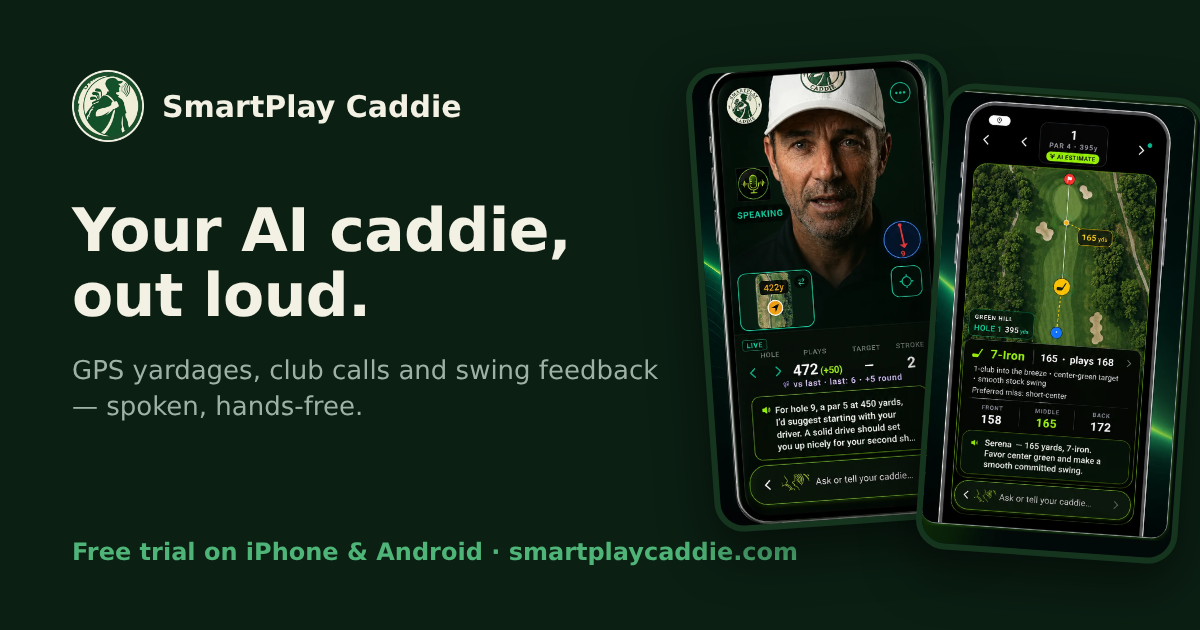
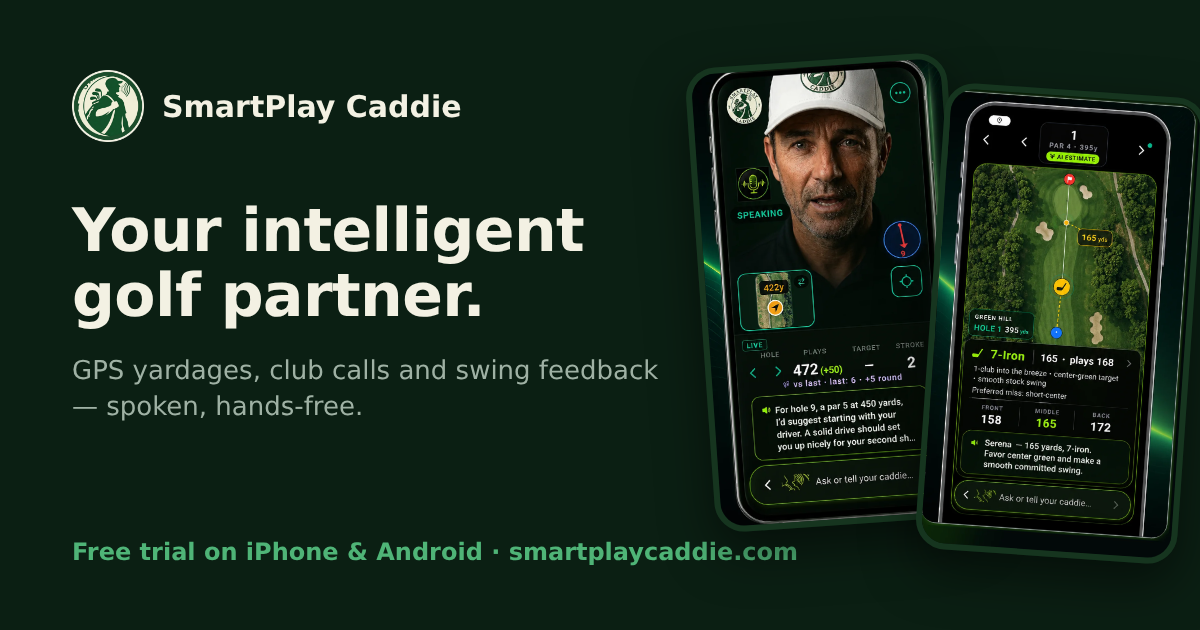
Brand line: 'Your intelligent golf partner' on share image and alt text
Claude-Session: https://claude.ai/code/session_012gehGfYVXeLHjYiX4vgHuc

Changed region(s): [[0.185, 0.3016, 0.4933, 0.4222], [0.0617, 0.4222, 0.4008, 0.5429]]

diff --git a/about.html b/about.html
@@ -16,7 +16,7 @@
 <meta property="og:image" content="https://smartplaycaddie.com/og.png">
 <meta property="og:image:width" content="1200">
 <meta property="og:image:height" content="630">
-<meta property="og:image:alt" content="SmartPlay Caddie — your AI golf caddie, out loud">
+<meta property="og:image:alt" content="SmartPlay Caddie — your intelligent golf partner">
 <meta name="twitter:card" content="summary_large_image">
 <meta name="twitter:image" content="https://smartplaycaddie.com/og.png">
 <link rel="icon" href="/favicon.ico" sizes="any">

diff --git a/download.html b/download.html
@@ -16,7 +16,7 @@
 <meta property="og:image" content="https://smartplaycaddie.com/og.png">
 <meta property="og:image:width" content="1200">
 <meta property="og:image:height" content="630">
-<meta property="og:image:alt" content="SmartPlay Caddie — your AI golf caddie, out loud">
+<meta property="og:image:alt" content="SmartPlay Caddie — your intelligent golf partner">
 <meta name="twitter:card" content="summary_large_image">
 <meta name="twitter:image" content="https://smartplaycaddie.com/og.png">
 <link rel="icon" href="/favicon.ico" sizes="any">

diff --git a/faq.html b/faq.html
@@ -16,7 +16,7 @@
 <meta property="og:image" content="https://smartplaycaddie.com/og.png">
 <meta property="og:image:width" content="1200">
 <meta property="og:image:height" content="630">
-<meta property="og:image:alt" content="SmartPlay Caddie — your AI golf caddie, out loud">
+<meta property="og:image:alt" content="SmartPlay Caddie — your intelligent golf partner">
 <meta name="twitter:card" content="summary_large_image">
 <meta name="twitter:image" content="https://smartplaycaddie.com/og.png">
 <link rel="icon" href="/favicon.ico" sizes="any">

diff --git a/index.html b/index.html
@@ -16,7 +16,7 @@
 <meta property="og:image" content="https://smartplaycaddie.com/og.png">
 <meta property="og:image:width" content="1200">
 <meta property="og:image:height" content="630">
-<meta property="og:image:alt" content="SmartPlay Caddie — your AI golf caddie, out loud">
+<meta property="og:image:alt" content="SmartPlay Caddie — your intelligent golf partner">
 <meta name="twitter:card" content="summary_large_image">
 <meta name="twitter:image" content="https://smartplaycaddie.com/og.png">
 <link rel="icon" href="/favicon.ico" sizes="any">

diff --git a/privacy.html b/privacy.html
@@ -16,7 +16,7 @@
 <meta property="og:image" content="https://smartplaycaddie.com/og.png">
 <meta property="og:image:width" content="1200">
 <meta property="og:image:height" content="630">
-<meta property="og:image:alt" content="SmartPlay Caddie — your AI golf caddie, out loud">
+<meta property="og:image:alt" content="SmartPlay Caddie — your intelligent golf partner">
 <meta name="twitter:card" content="summary_large_image">
 <meta name="twitter:image" content="https://smartplaycaddie.com/og.png">
 <link rel="icon" href="/favicon.ico" sizes="any">

diff --git a/terms.html b/terms.html
@@ -16,7 +16,7 @@
 <meta property="og:image" content="https://smartplaycaddie.com/og.png">
 <meta property="og:image:width" content="1200">
 <meta property="og:image:height" content="630">
-<meta property="og:image:alt" content="SmartPlay Caddie — your AI golf caddie, out loud">
+<meta property="og:image:alt" content="SmartPlay Caddie — your intelligent golf partner">
 <meta name="twitter:card" content="summary_large_image">
 <meta name="twitter:image" content="https://smartplaycaddie.com/og.png">
 <link rel="icon" href="/favicon.ico" sizes="any">
